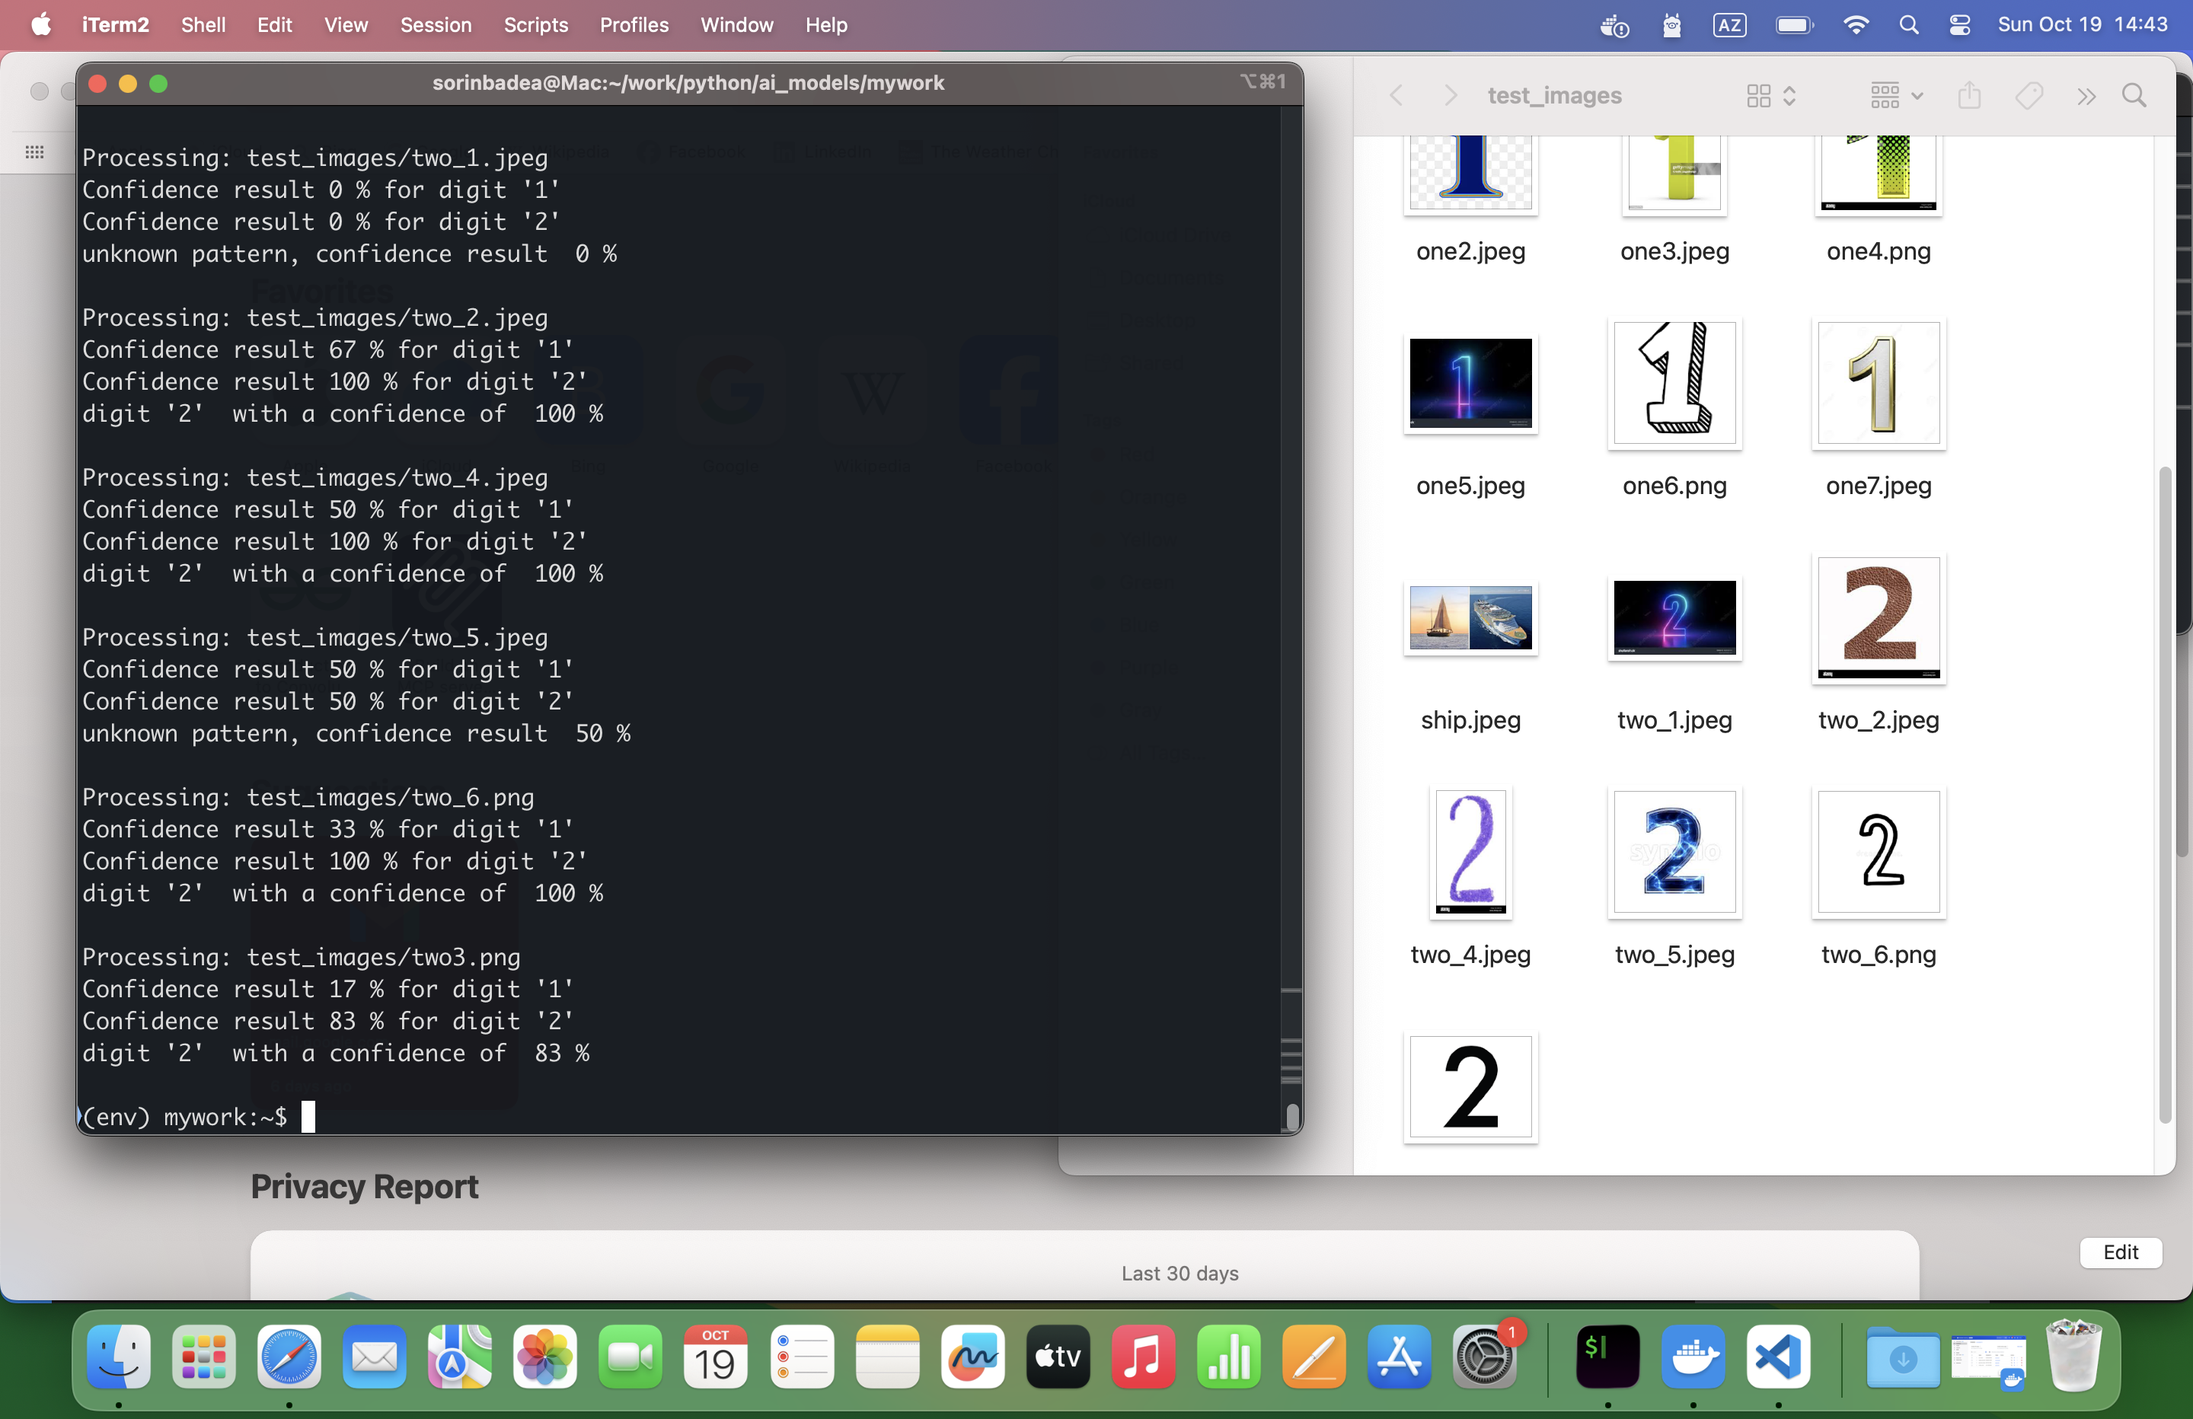
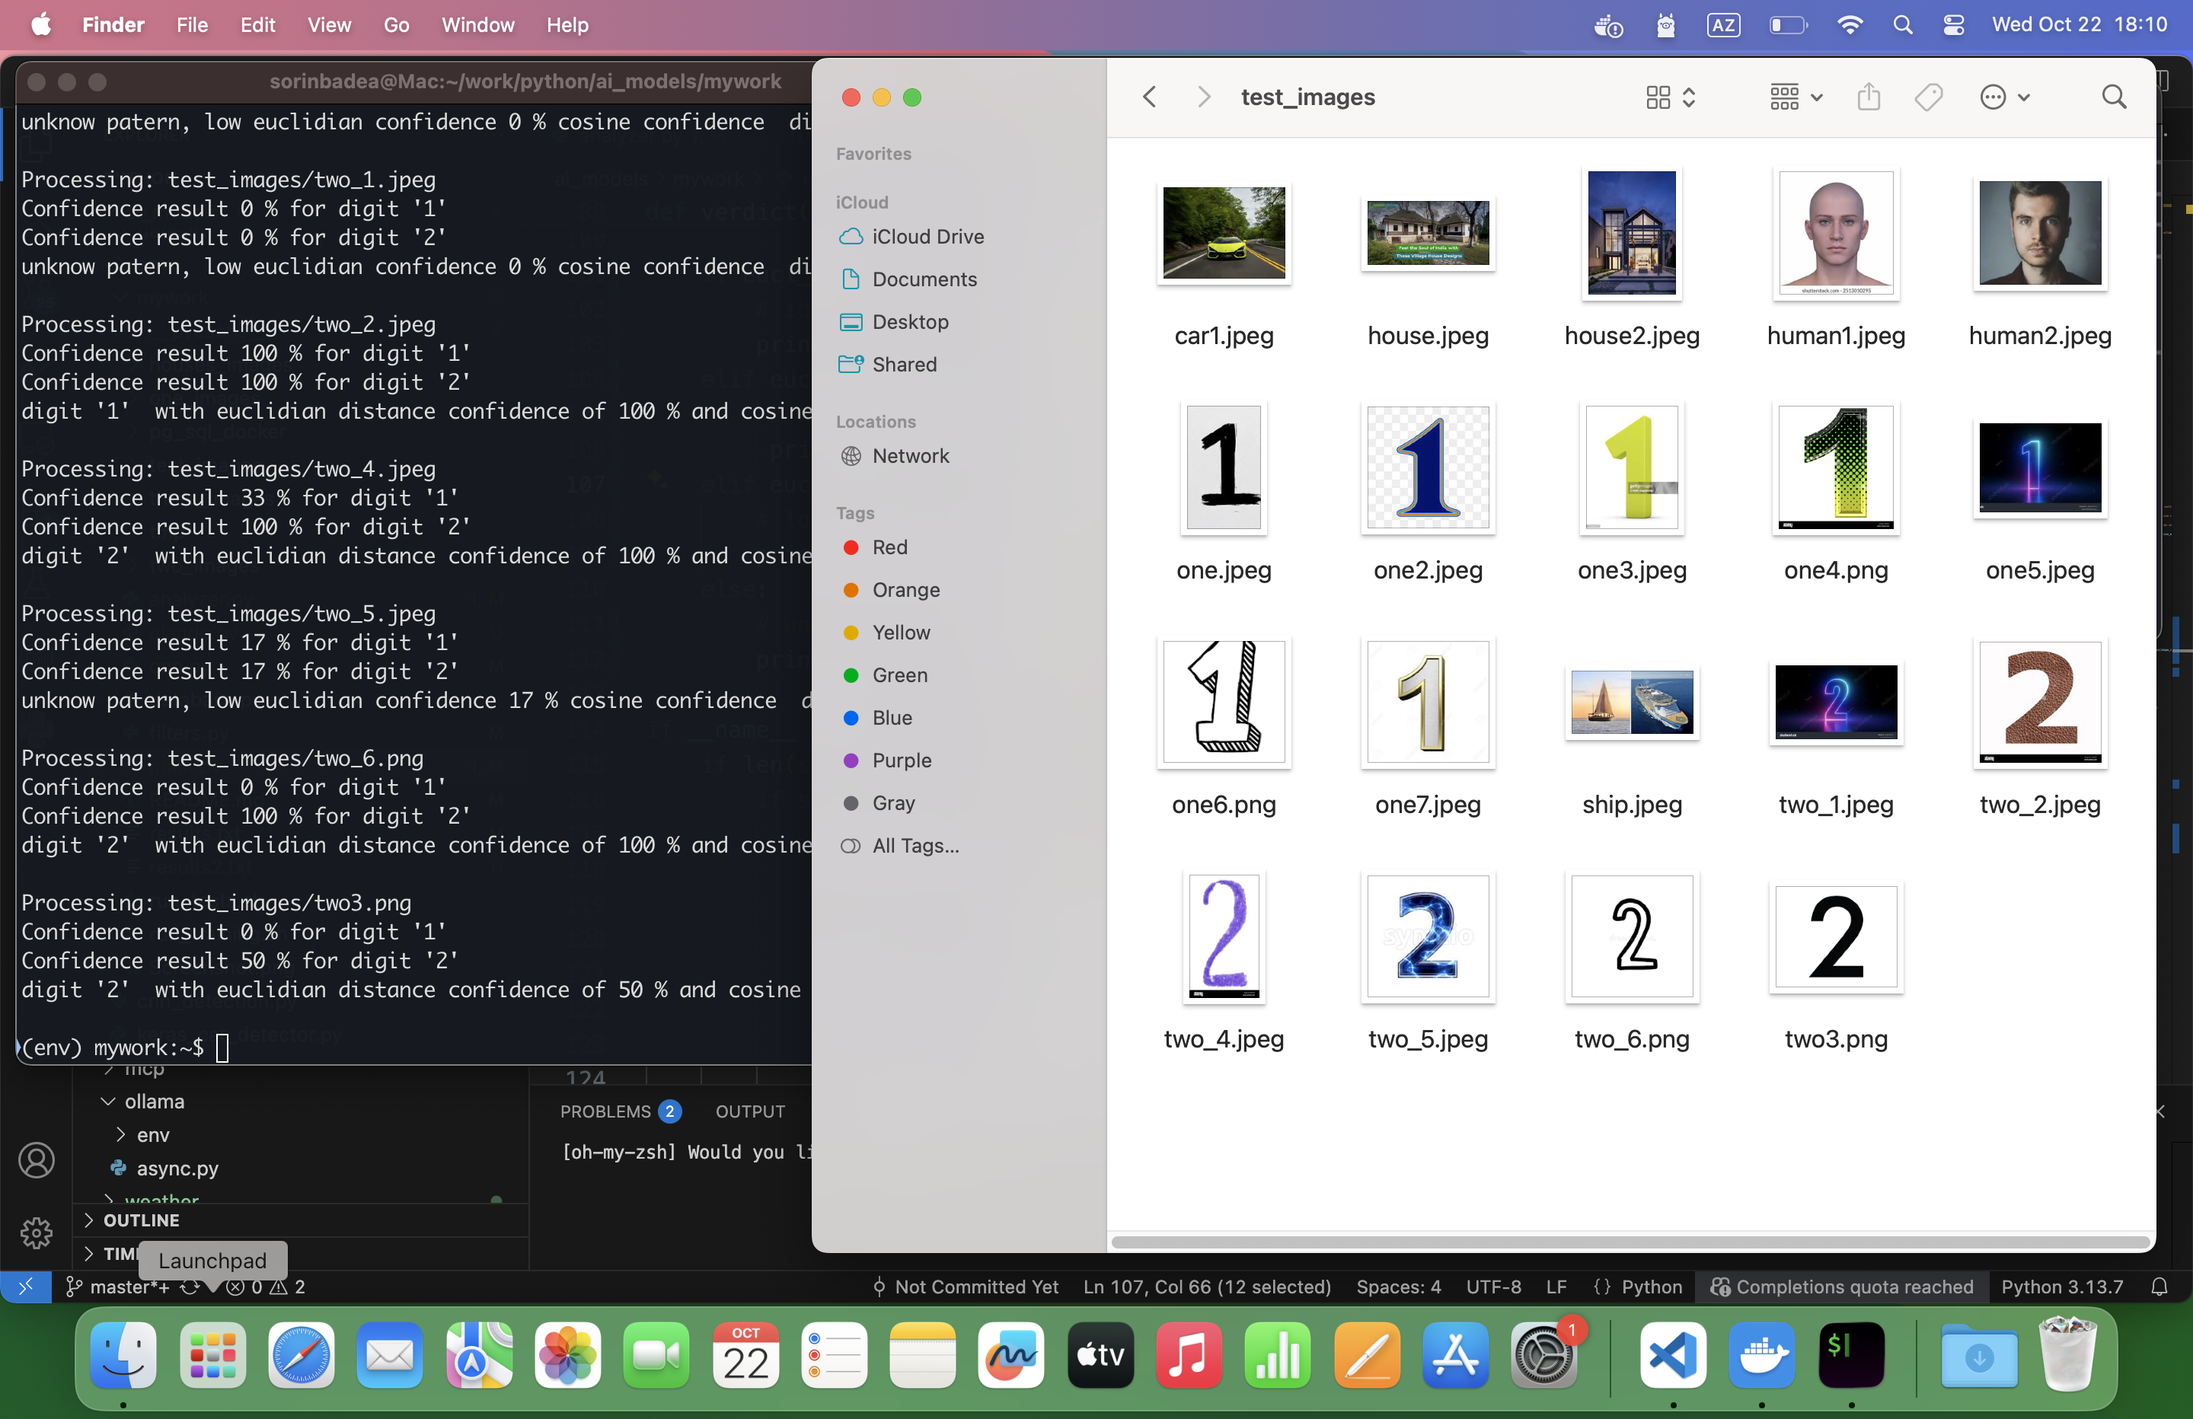
introduce the firt version of cosine evaluation combine the euclidian evaluation with the cosine evaluation for better results small updates on euclidian threshold more refactoring and multi threading will come... upodate results.txt

diff --git a/analyzer.py b/analyzer.py
@@ -1,9 +1,75 @@
 import numpy as np
 import filters
 from database import DataBaseInterface
+import math
 
 """
 Module to evaluate pooled outputs against trained patterns
+"""
+
+"""
+using cosine
+"""
+
+def inner_prod(X, Y):
+   sum_prod = 0
+   for x_i, y_i in zip(X, Y):
+        sum_prod += x_i * y_i
+   return sum_prod
+
+def magnitude(X):
+   sum_squares = 0
+   for x_i in X:
+       sum_squares += x_i ** 2
+   return math.sqrt(sum_squares)
+
+def cosine_similarity(X, Y):
+    mag_X = magnitude(X)
+    mag_Y = magnitude(Y)
+    # Check if either magnitude is zero or very close to zero
+    if mag_X == 0 or mag_Y == 0:
+        return 0.0
+    return inner_prod(X, Y) / (mag_X * mag_Y)
+
+def get_similarity(pooled_data, trained_data):
+    results = []
+    for Y_i in trained_data:
+        similarity = cosine_similarity(pooled_data, Y_i)
+        results.append((Y_i, similarity))
+    # Sort by similarity in descending order
+    results.sort(key=lambda x: x[1], reverse=True)
+    # results [1] is highest similarity among the whole set
+    return results[1]
+
+def evaluate_cosine(trained_data, pooled_data):
+    results = []
+    t_data = []
+    p_data = pooled_data.tolist()
+    ### debug
+    ### print("pooled_data=", p_data)
+    for t_row in list(trained_data):
+        t_data.append(t_row[0])
+    ### debug
+    ### print("trained_data")
+    for pool_row in p_data:
+        results.append(get_similarity(pool_row, t_data))
+    return results
+
+def display_cosine_result(output):
+    """
+    show the max similarity from output
+    @param output: cosine similarity for each applied kernel, (filter)
+    """
+    for key in output:
+        print("")
+        print("key", key)
+        similarity =  []
+        for c in output[key]:
+            similarity.append(c[1])
+        print("max similarity =", max(similarity))
+
+
+"""
 using euclidean distance
 """
 
@@ -11,12 +77,12 @@ def euclidean_distance(vec1, vec2):
     """Calculate Euclidean distance between two vectors"""
     return np.sqrt(np.sum((np.array(vec1) - np.array(vec2)) ** 2))
 
-def is_match_distance(new_values, trained_values):
+def is_match_distance(trained_values, new_values):
     """Check if new values match within distance threshold"""
     distance = euclidean_distance(new_values, trained_values)
     # try to evaluate an appropiate threshold
     nv_average = np.sum(np.array(new_values))/len(new_values)
-    threshold = nv_average * 0.14
+    threshold = nv_average * 0.09
     return distance < threshold, distance
 
 def iterate_in_samples(trained_filter, input_pooled):
@@ -38,8 +104,8 @@ def evaluate_filter(trained_filter, input_pooled, verbose=False):
     matches = 0
     not_matches = 0
     min_distance = 255.0
-    for pool_row, train_row in iterate_in_samples(trained_filter, input_pooled):
-        match, distance = is_match_distance(pool_row, train_row)
+    for pooled_row, trained_row in iterate_in_samples(trained_filter, input_pooled):
+        match, distance = is_match_distance(trained_row, pooled_row)
         if match:
             matches += 1
         else:
@@ -55,7 +121,8 @@ def evaluate(pooled_maps, shape_index, verbose=False):
     @param pooled_maps: map of kernel shapes to pooled outputs
     @param shape_index: shape index
     """
-    result = {}
+    euclidian_result = {}
+    cosine_result = {}
     db = DataBaseInterface('localhost','myapp','postgres','password',5432)
     for key in pooled_maps:
         trained_filter = db.get_data(key)
@@ -63,20 +130,39 @@ def evaluate(pooled_maps, shape_index, verbose=False):
             print(f"❌ Error fetching data for filter '{key}'")
             return None
         else:
-            result[key] = evaluate_filter(trained_filter, pooled_maps[key], verbose)
+            euclidian_result[key] = evaluate_filter(trained_filter, pooled_maps[key], verbose)
+            cosine_result[key] = evaluate_cosine(trained_filter, pooled_maps[key])
     if verbose:
         print("analyse result for shape ", shape_index + 1)
-        print(result)
+        print(euclidian_result)
+        display_cosine_result(cosine_result)
     db.database_disconnect()
-    matches = [ result[key][0] for key in result ]
-    min_distances = [ result[key][2] for key in result ]
+    ## evaluate the euclidian results
+    matches = [ euclidian_result[key][0] for key in euclidian_result ]
     total_matches = sum(1 for m in matches if m > 0)
+    ## evaluate the cosine results
+    ### display_cosine_result(cosine_result)
+    kernel_similarity  = 0
+    for key in cosine_result:
+        similarity = []
+        for c in cosine_result[key]:
+            similarity.append(c[1])
+        kernel_similarity += max(similarity)
+    if verbose:
+        print("sum of kernel similarities", kernel_similarity)
+    ### euclidian distance
+    ### min_distances = [ result[key][2] for key in result ]
     ### print("minmal distances ",min_distances, " total ", sum(min_distances))
-    return total_matches/len(result)
+    return total_matches/len(euclidian_result), kernel_similarity
 
 if __name__ == "__main__":
-    # Usage, is_match_distance function
-    trained_pool = [0.8, 0.3, 0.6, 0.9]
-    new_pool = [0.82, 0.28, 0.61, 0.88]
-    match, dist = is_match_distance(new_pool, trained_pool, threshold=0.1)
-    print(f"Match: {match}, Distance: {dist:.4f}")
+    # the more in randow changes comparing the trained data, the more
+    # low confidence, even if the values are 10x higher than trained data
+    # if the follow the trend of tarined data is OK
+    trained_pool = [[10, 11, 12, 13], [11, 12, 13, 13], [11.5, 12, 13, 12.5]]
+    new_pool = [[1, 12, 3, 3] , [11, 12, 13, 13], [15, 36, 9, 10], [111, 122, 130, 130 ]]
+    result = evaluate_cosine(new_pool, trained_pool, "test")
+    for i in result:
+        #print(i[0])
+        print(i[1])
+        

diff --git a/filters.py b/filters.py
@@ -1,16 +1,21 @@
 
 # 1 shape kernels to detect digit "1"
+# !!!!
+# for cosine coherence resulst we need 
+# to keep the same number of kernels for each shape
+# !!!!
+
 kernels_digit_one = {
     'name' : "digit \'1\'",
     'pool_size' : 3,
     'stride' : 3,
     'filters' :
     {
-        'digit_1_filter_1': [[-1,  3,  3, -1, -1],
-                            [ -1,  3,  3, -1, -1],
-                            [ -1,  3,  3, -1, -1],
-                            [ -1,  3,  3, -1, -1],
-                            [ -1,  3,  3, -1, -1]],
+        'digit_1_filter_1': [[-1, -1, -1, -1, -1],
+                            [ -1, -1,  3,  3, -1],
+                            [ -1,  3,  3,  3, -1],
+                            [  3,  3,  3,  3, -1],
+                            [  3,  3,  3,  3, -1]],
 
         'digit_1_filter_2': [[-1, -1,  3,  3, -1],
                             [ -1,  3,  3,  3, -1],
@@ -23,23 +28,22 @@ kernels_digit_one = {
                             [  3,  3,  3,  3, 3],
                             [ -1, -1, -1,  3, 3],
                             [ -1, -1, -1,  3, 3]],
-        
 
-        'digit_1_filter_4': [[-1, -1, -1,  3, -1],
+        'digit_1_filter_4': [[-1,  3,  3,  3, -1],
+                            [ -1,  3,  3,  3, -1],
+                            [ -1,  3,  3,  3, -1],
+                            [ -1,  3,  3,  3, -1],
+                            [ -1,  3,  3,  3, -1]],
+
+        'digit_1_filter_5': [[-1,  3,  3,  3, -1],
+                            [ -1,  3,  3,  3, -1],
+                            [ -1,  3,  3,  3, -1],
+                            [ -1,  3,  3,  3, -1],
+                            [ -1,  3,  3,  3, -1]],
+
+        'digit_1_filter_6': [[-1, -1,  3,  3, -1],
                             [ -1, -1,  3,  3, -1],
-                            [ -1,  3,  3, -1, -1],
-                            [  3,  3, -1, -1, -1],
-                            [  3, -1, -1, -1, -1]],
-
-        'digit_1_filter_5': [[-1, -1,  3,  3, -1],
                             [ -1, -1,  3,  3, -1],
-                            [ -1,  3,  3, -1, -1],
-                            [ -1,  3,  3, -1, -1],
-                            [ -1,  3,  3, -1, -1]],
-
-        'digit_1_filter_6': [[-1, -1, -1, -1, -1],
-                            [ -1, -1, -1, -1, -1],
-                            [ -1, -1, -1, -1, -1],
                             [  3,  3,  3,  3,  3],
                             [  3,  3,  3,  3,  3]]
     }
@@ -51,41 +55,42 @@ kernels_digit_two = {
     'stride' : 3,
     'filters' :
     {
-        'digit_2_filter_1': [[ -1, -1,  3,  3,  3],
+        'digit_2_filter_1': [[ -1, -1, -1, -1, -1],
+                            [  -1, -1, -1, -1, -1],
                             [  -1, -1,  3,  3,  3],
-                            [   3,  3, -1, -1, -1],
-                            [   3,  3, -1, -1, -1],
-                            [  -1, -1, -1, -1, -1]],
+                            [   3,  3,  3,  3,  3],
+                            [   3,  3,  3,  3,  3]],
 
-        'digit_2_filter_2': [[ 3,  3,  3, -1, -1],
+        'digit_2_filter_2': [[-1, -1, -1, -1, -1],
+                            [ -1, -1, -1, -1, -1],
                             [  3,  3,  3, -1, -1],
+                            [  3,  3,  3,  3,  3],
+                            [  3,  3,  3,  3,  3]],
+
+        'digit_2_filter_3': [[3, 3, -1, -1, -1],
+                            [ 3, 3, -1, -1, -1],
+                            [ 3, 3,  3, -1, -1],
+                            [ 3, 3,  3, -1, -1],
+                            [ 3, 3,  3, -1, -1]],
+
+        'digit_2_filter_4': [[3, 3,  3, -1, -1],
+                            [ 3, 3,  3, -1, -1],
+                            [ 3, 3,  3, -1, -1],
+                            [ 3, 3, -1, -1, -1],
+                            [ 3, 3, -1, -1, -1]],
+
+        'digit_2_filter_5': [[ 3,  3,  3,  3,  3],
+                            [ -1,  3,  3,  3,  3],
                             [ -1, -1, -1,  3,  3],
-                            [ -1, -1, -1,  3,  3],
+                            [ -1, -1, -1, -1,  3],
                             [ -1, -1, -1, -1, -1]],
-
-        'digit_2_filter_3': [[-1,  3,  3, -1, -1],
-                            [ -1,  3,  3, -1, -1],
-                            [ -1, -1, -1,  3,  3],
-                            [ -1, -1, -1,  3,  3],
-                            [ -1, -1, -1,  3,  3]],
-
-        'digit_2_filter_4': [[-1, -1, -1,  3,  3],
-                            [ -1, -1, -1,  3,  3],
-                            [ -1, -1, -1,  3,  3],
-                            [ -1,  3,  3, -1, -1],
-                            [ -1,  3,  3, -1, -1]],
-
-        'digit_2_filter_5': [[-1, -1,  3,  3, -1],
-                            [ -1, -1,  3, -1, -1],
+ 
+        'digit_2_filter_6': [[-1,  3,  3,  3, -1],
+                            [ -1,  3,  3,  3, -1],
                             [ -1,  3, -1, -1, -1],
                             [  3,  3, -1, -1, -1],
                             [  3,  3,  3,  3,  3]],
 
-        'digit_2_filter_6': [[-1, -1, -1, -1, -1],
-                            [ -1, -1, -1, -1, -1],
-                            [ -1, -1, -1, -1, -1],
-                            [  3,  3,  3,  3,  3],
-                            [  3,  3,  3,  3,  3]]            
     }
 }
 

diff --git a/main.py b/main.py
@@ -86,6 +86,31 @@ class ImageProcessor:
             print(f"Unexpected exception: {e}")
             return None
 
+def verdict(cosine_result, eucl_result):
+    """
+    issue the final verdict
+    for euclidian distance, get the maximum match from all tried filters
+    for cosine similarity get the shape with the maximum similarities
+    @param cosine_result - name of the shape with the best cosine similarity
+    @param eucl_result; hash of euclidian matches/shape
+    """
+    cosine_match = max(cosine_result, key=cosine_result.get)
+    eucl_dist_match = max(eucl_result, key=eucl_result.get)
+    eucl_percent = round(eucl_result[eucl_dist_match] * 100)
+
+    if eucl_percent > 66 and cosine_match == eucl_dist_match:
+        # ideal case, both evaluation methods matches
+        print(cosine_match, " with euclidian distance confidence of", eucl_percent, "% and cosine confidence")
+    elif eucl_percent > 80 and cosine_match != eucl_dist_match:
+         # higher euclidian match but not matching the cosine, take eculidian
+         print(eucl_dist_match, " with euclidian distance confidence of", eucl_percent, "% and cosine confidence")
+    elif eucl_percent > 32 and eucl_percent < 67 and cosine_match == eucl_dist_match:
+        # low euclidian confidence, take cosine
+        print(eucl_dist_match, " with euclidian distance confidence of", eucl_percent, "% and cosine confidence")
+    else:
+        # unknown pattern
+        print("unknow patern, low euclidian confidence", eucl_percent, "% cosine confidence ", cosine_match)
+
 if __name__ == "__main__":
     if len(sys.argv) > 2:
         if sys.argv[1] == "-f":
@@ -109,7 +134,8 @@ if __name__ == "__main__":
         elif sys.argv[1] == "-a":
             image_path = sys.argv[2]
             # hash of known patter; (digit1, house) and nb of matches/total kernels
-            match_ratio = {}
+            eucl_result = {}
+            cosine_result = {}
             img_processor = ImageProcessor(image_path, REDUCED_WIDTH, False)
             if img_processor.pre_processing() == None:
                 sys.exit(1)
@@ -118,18 +144,13 @@ if __name__ == "__main__":
                 """
                 call the analyzer module
                 """
-                result = ana.evaluate(pooled_map, shape_index, False)
-                match_ratio[filters.shapes[shape_index]['name']] = result
-                print(f"Confidence result {round(result * 100)} % for {filters.shapes[shape_index]['name']}")
-            """
-            get the maximum match from all tried filters
-            """
-            match_max = max(match_ratio, key=match_ratio.get)
-            if round(match_ratio[match_max] * 100) < 67:
-                print("unknown pattern, confidence result ", round(match_ratio[match_max] * 100), "%")
-            else:
-                print(match_max, " with a confidence of ", round(match_ratio[match_max] * 100), "%")
-            
+                euclidian_result, similarity = ana.evaluate(pooled_map, shape_index, False)
+                eucl_result[filters.shapes[shape_index]['name']] = euclidian_result
+                cosine_result[filters.shapes[shape_index]['name']] = similarity
+                print(f"Confidence result {round(euclidian_result * 100)} % for {filters.shapes[shape_index]['name']}")
+            # issue final verdict
+            verdict(cosine_result, eucl_result)
+
         elif sys.argv[1] == "-d":
             image_path = sys.argv[2]
             """

diff --git a/cnn.py b/cnn.py
@@ -29,7 +29,7 @@ class ConvolutionNN:
         """
         image = self._image.convert('L')
         img_array = np.array(image)
-        # Count pixels that are very dark (e.g., < 70 out of 255)
+        # Count pixels that are dark (e.g., < 70 out of 255)
         black_pixels = np.sum(img_array < 70)
         total_pixels = img_array.size
         """

diff --git a/README.md b/README.md
@@ -7,3 +7,9 @@ For training a Postgres SQL database is nedeeed, a Dockerfile is provided in pg-
 directory, one_images/ two_images/ and houses/ contains associated images used for training.
 
 It is highly recommended to set-up a python virtual environment, tensorflow, PIL qnd numpy are used for implementation.
+
+Links:
+
+https://www.tigerdata.com/learn/implementing-cosine-similarity-in-python
+
+https://medium.com/@joshuaanang783/what-makes-cnns-so-special-exploring-the-true-nature-of-images-and-how-they-work-with-cnns-36adc103c4be
